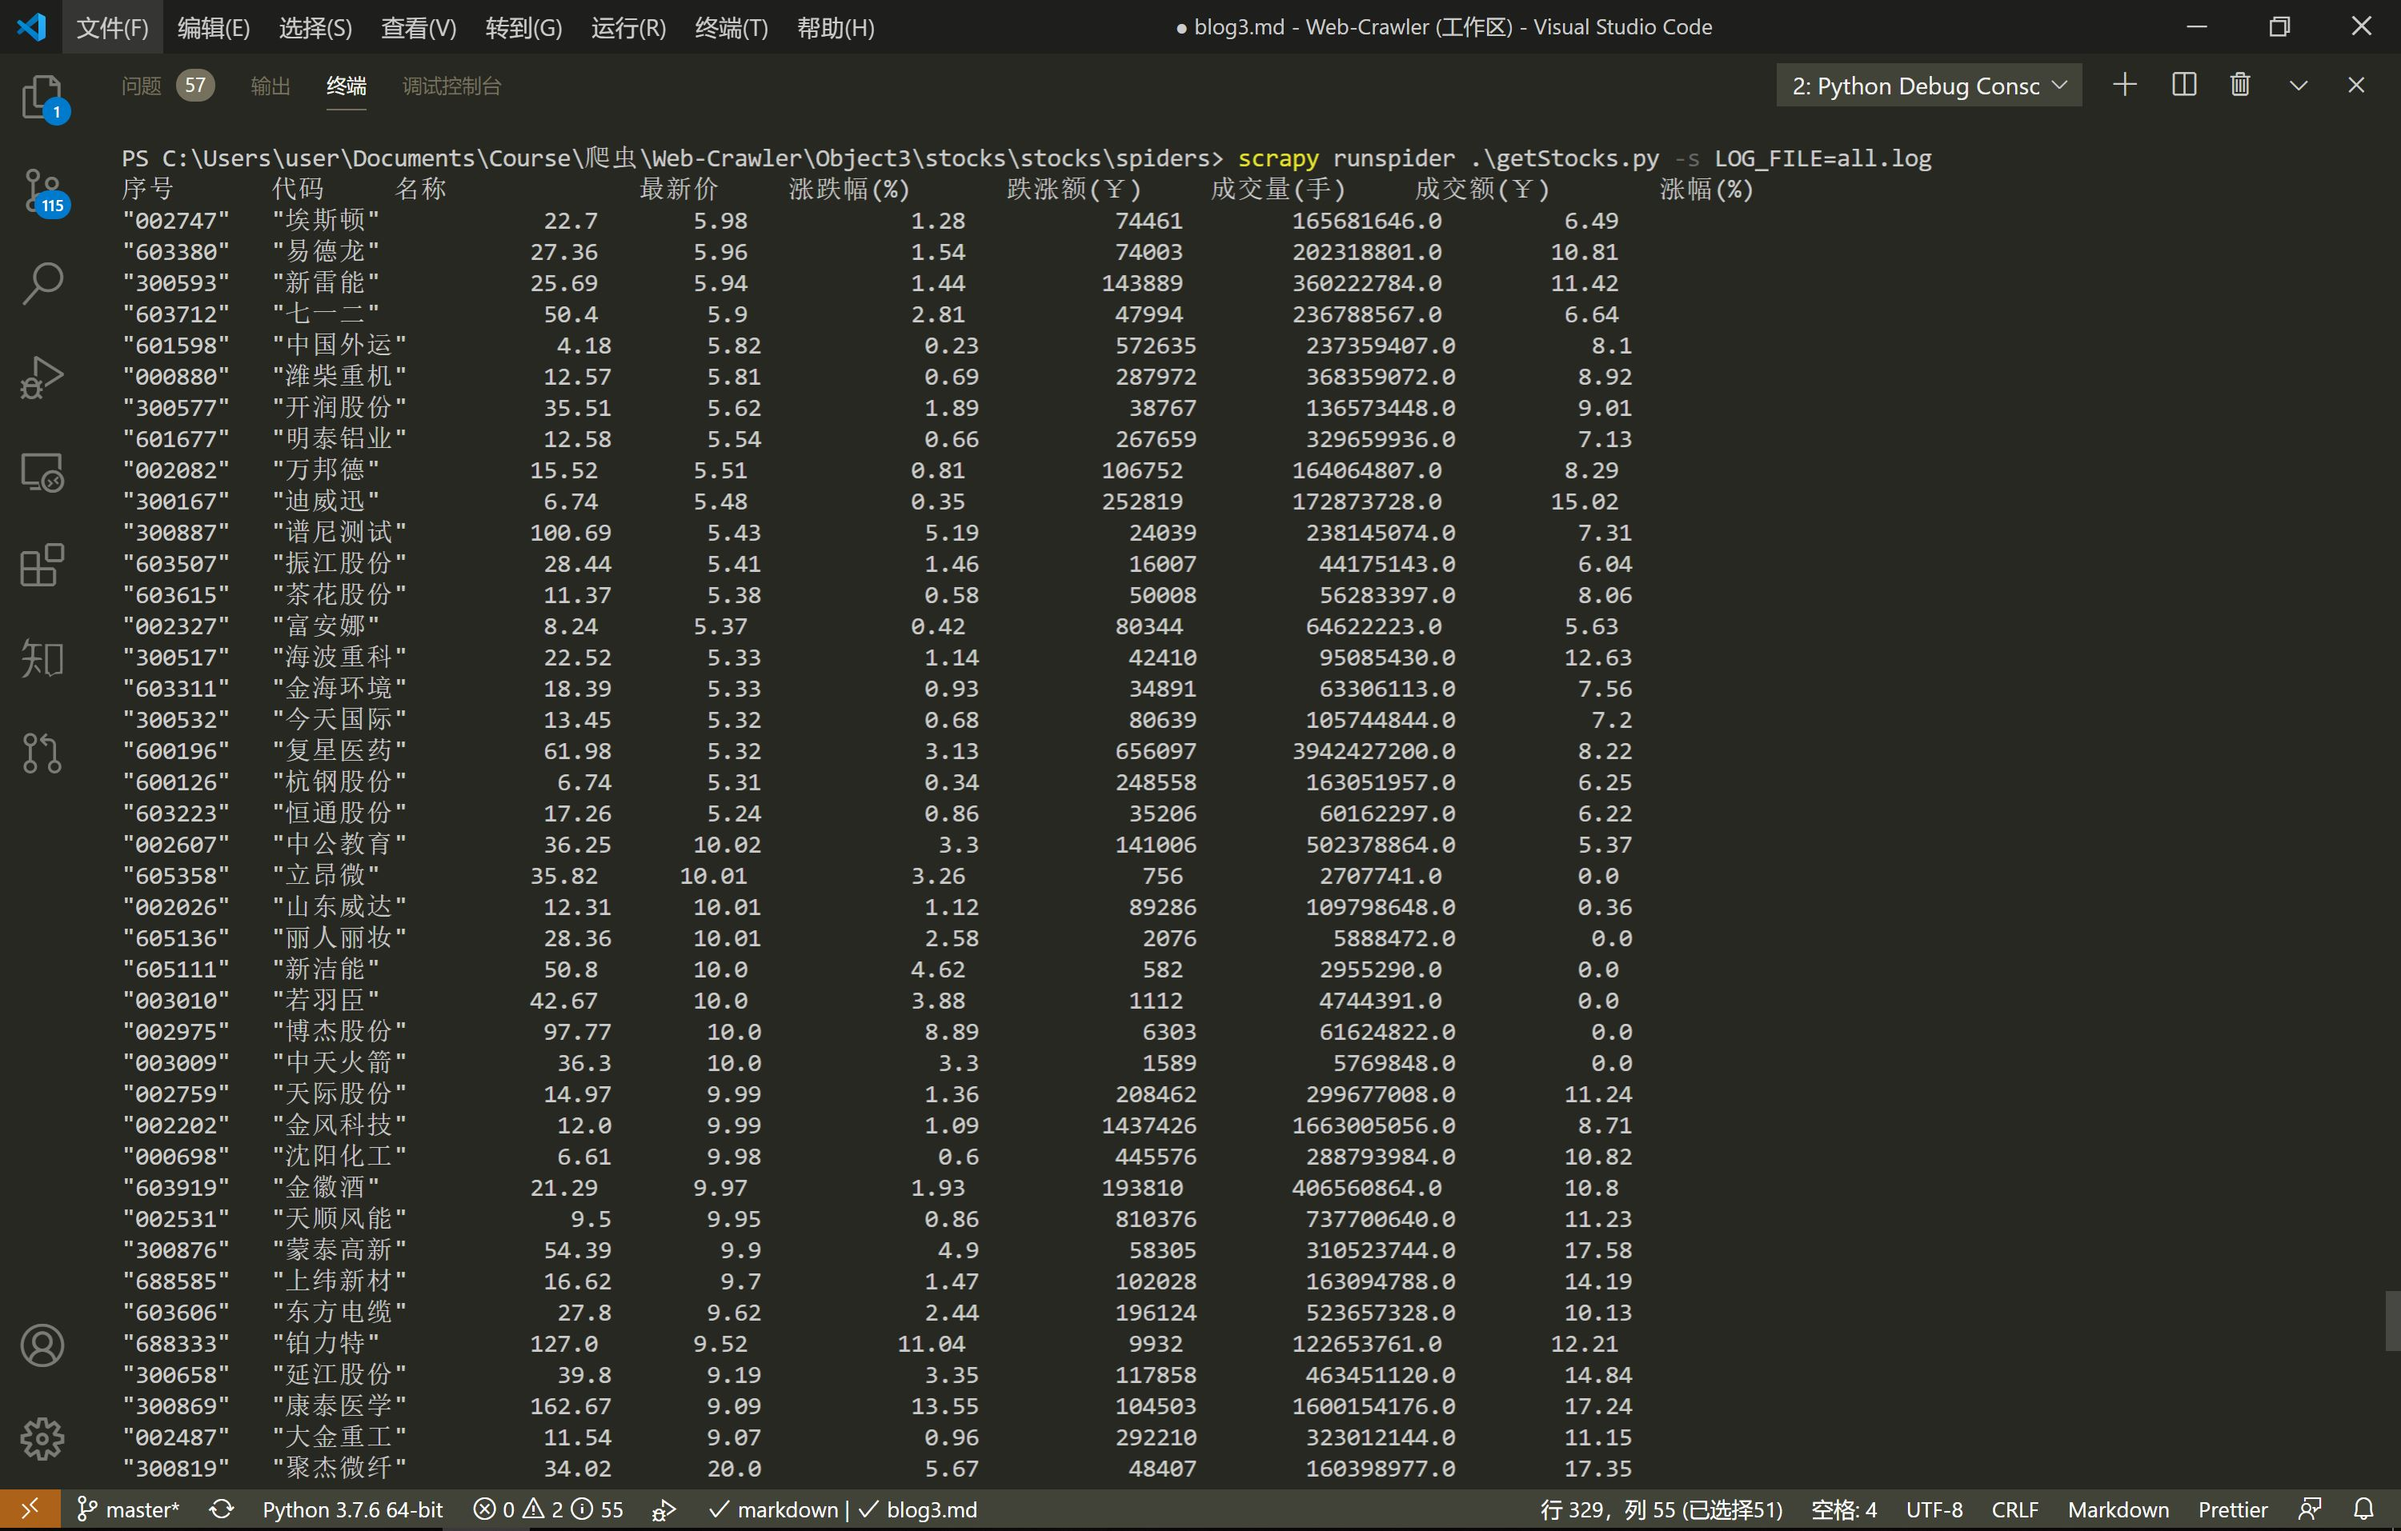
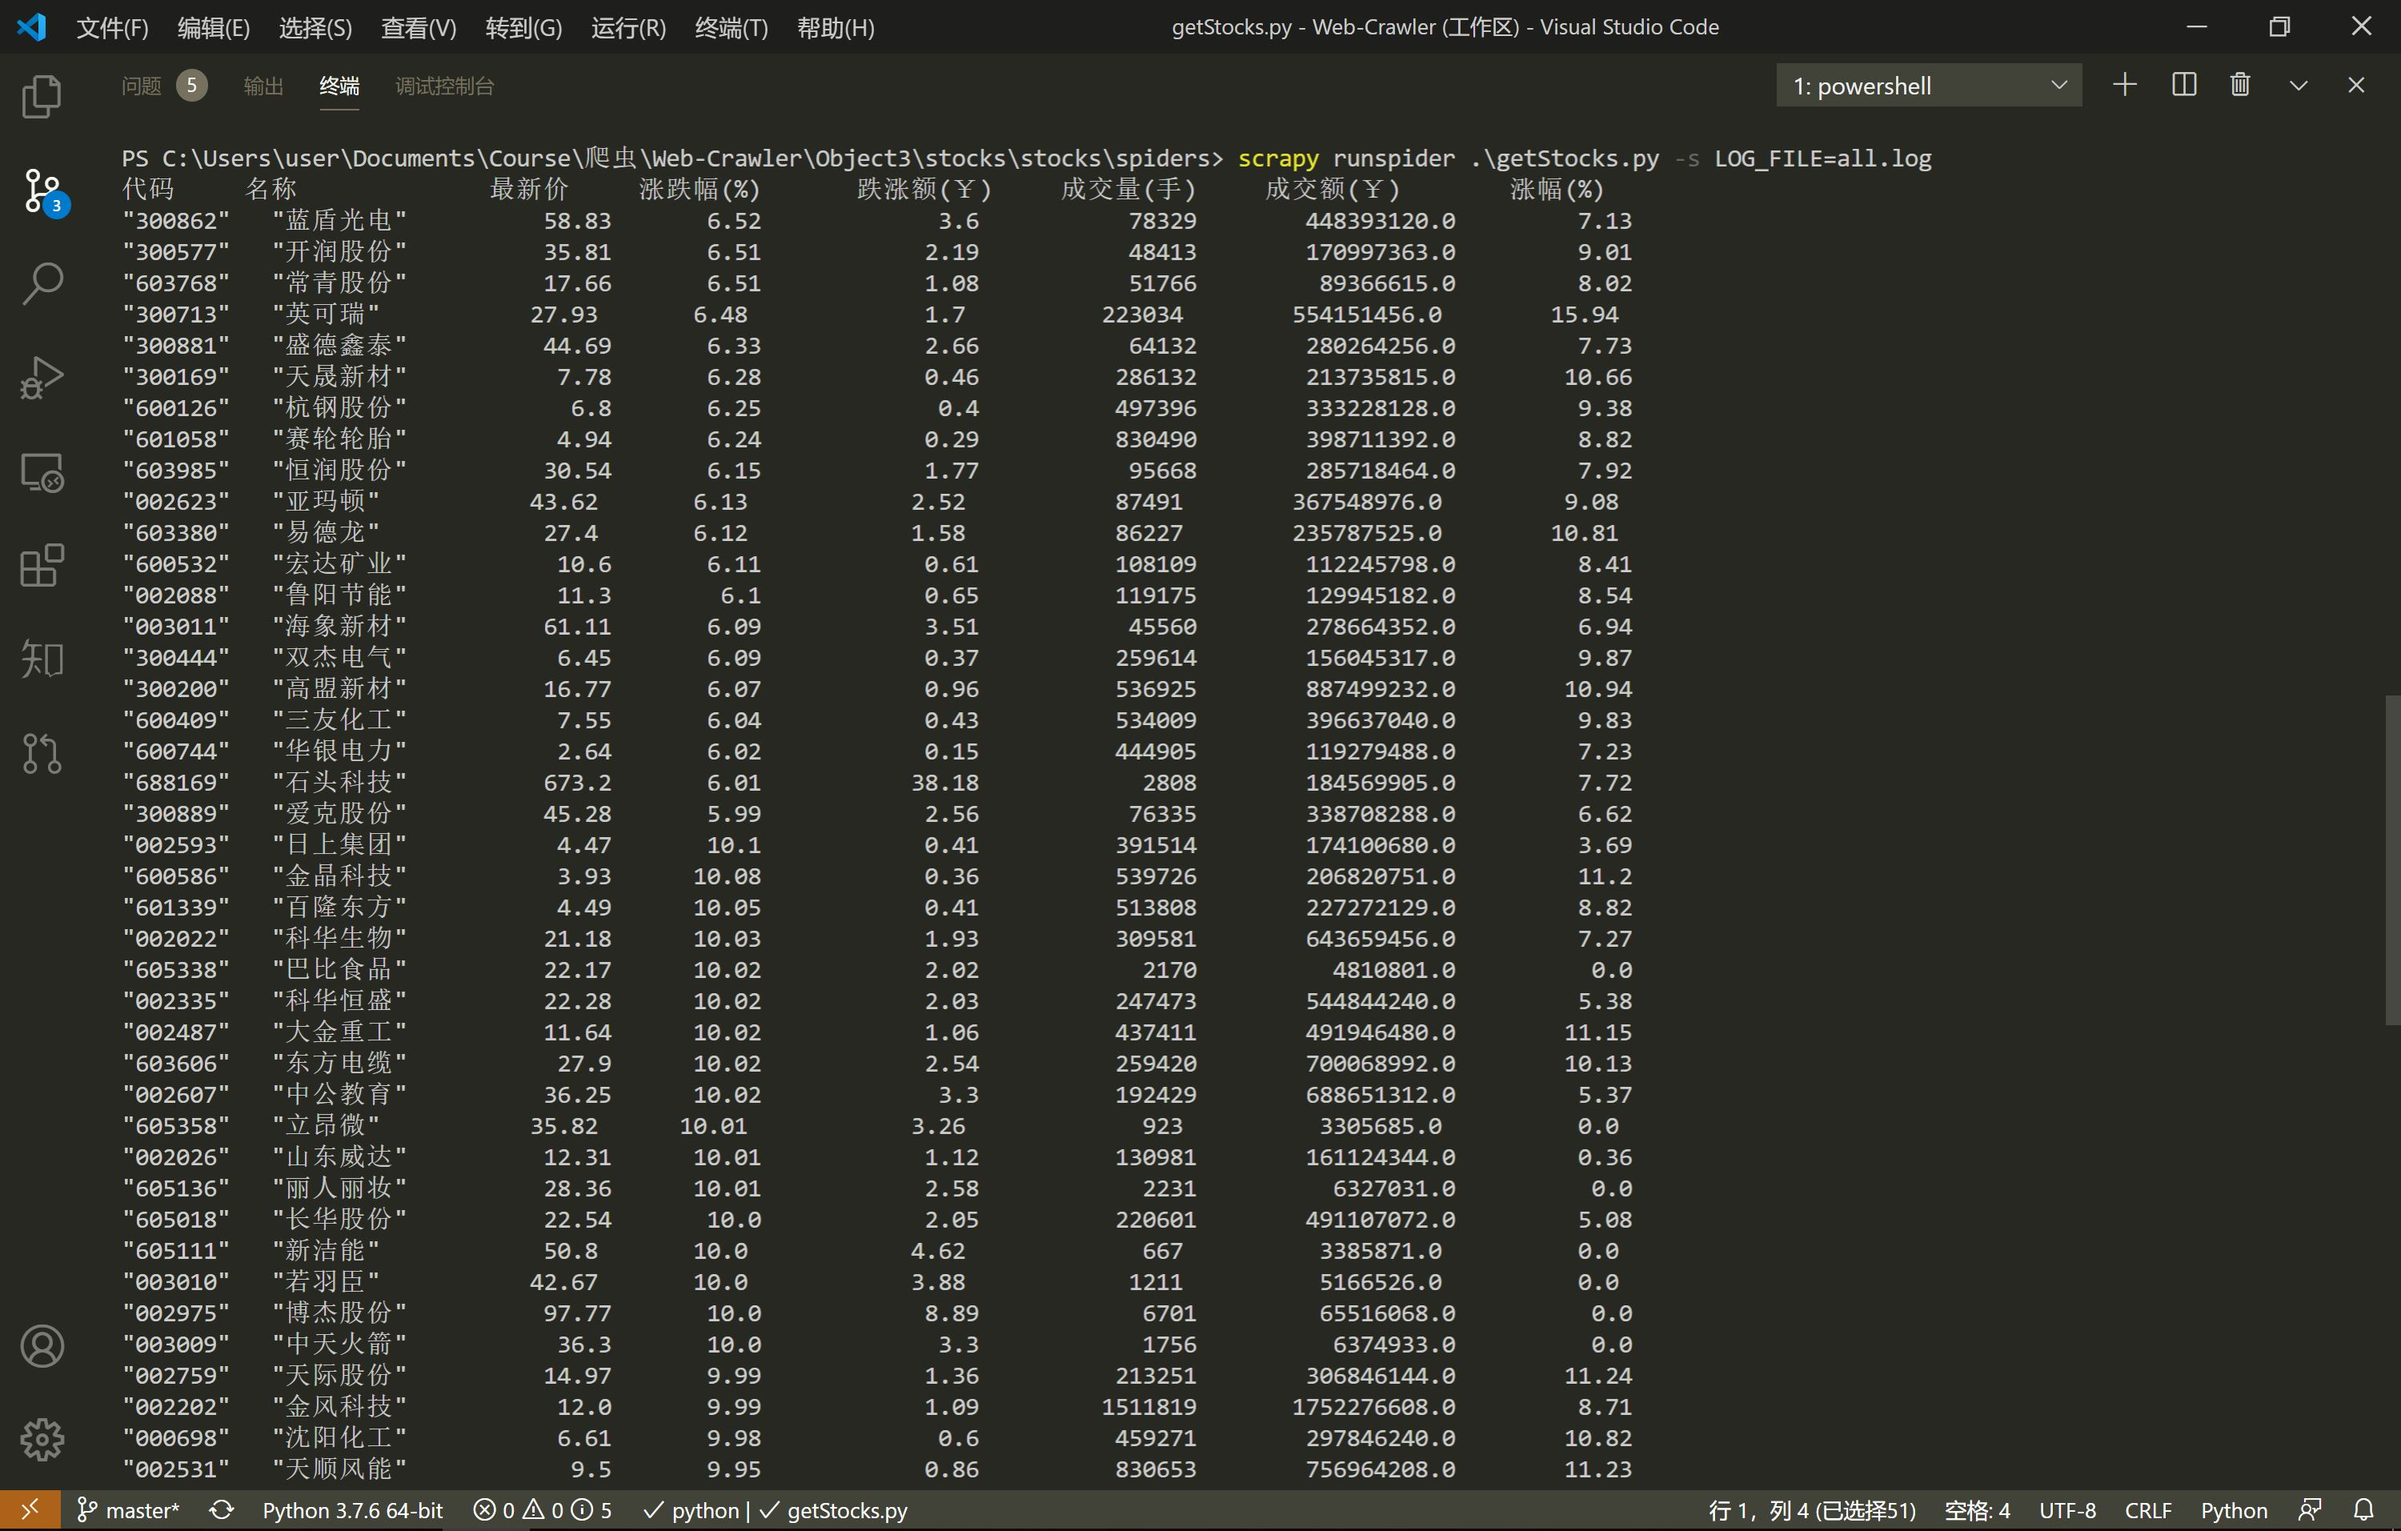
update blog

diff --git a/Object3/stocks/stocks/spiders/getStocks.py b/Object3/stocks/stocks/spiders/getStocks.py
@@ -15,7 +15,7 @@ class ArticleSpider(scrapy.Spider):
         # global count
         # count = 1
         # global count
-        print('%-8s %-6s %-8s %10s %10s %12s %10s %10s %12s'%('序号','代码','名称','最新价','涨跌幅(%)','跌涨额(￥)','成交量(手)','成交额(￥)','涨幅(%)'))
+        print('%-6s %-8s %10s %10s %12s %10s %10s %12s'%('代码','名称','最新价','涨跌幅(%)','跌涨额(￥)','成交量(手)','成交额(￥)','涨幅(%)'))
         return [scrapy.Request(url = url,callback = self.parse) for url in urls]
 
     def parse(self,response):

diff --git a/Object3/blog3.md b/Object3/blog3.md
@@ -391,4 +391,4 @@ class ArticleSpider(scrapy.Spider):
 ![](./img/3_stocks.jpg)
 ### 心得
 - 要把程序套进scrapy里面还是有一点难度的，要注意一下参数的传递或者设置为全局变量。
-- 为了避免命令行输出过多debug信息导致杂乱，可以在运行，命令后加上```-s LOG_FILE=all.log```
+- 为了避免命令行输出过多debug信息导致杂乱，可以在运行命令后加上```-s LOG_FILE=all.log```
